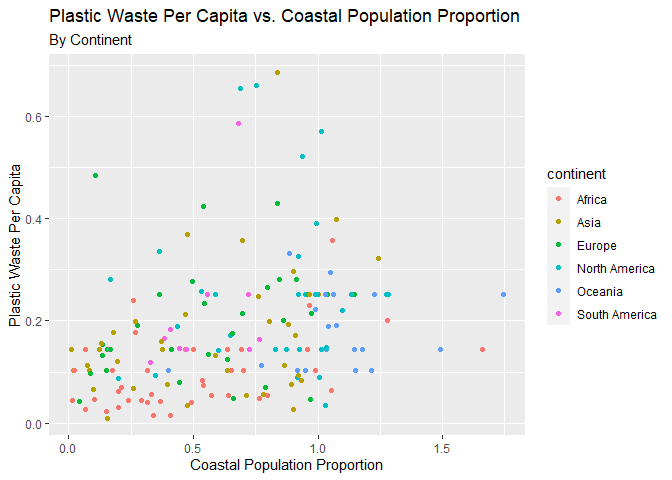
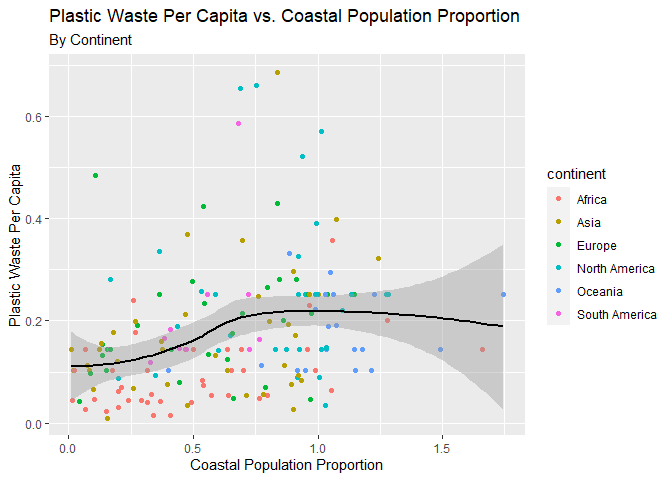
Updated!

Changed region(s): [[0.0938, 0.5, 0.75, 0.8438]]

diff --git a/lab-02.md b/lab-02.md
@@ -155,11 +155,15 @@ continent.
 ``` r
 ggplot(filter (plastic_waste, plastic_waste_per_cap < 3), 
        aes(x = coastal_pop/total_pop,
-                     y = plastic_waste_per_cap,
-                     color = continent)) +
-  geom_point() +
+           y = plastic_waste_per_cap)) +
+  geom_point(aes(color = continent)) +
+  geom_smooth(color = "#000000") +
   labs(x = "Coastal Population Proportion", y = "Plastic Waste Per Capita", title = "Plastic Waste Per Capita vs. Coastal Population Proportion", subtitle = "By Continent")
 ```
+
+    ## `geom_smooth()` using method = 'loess' and formula 'y ~ x'
+
+    ## Warning: Removed 10 rows containing non-finite values (stat_smooth).
 
     ## Warning: Removed 10 rows containing missing values (geom_point).
 
